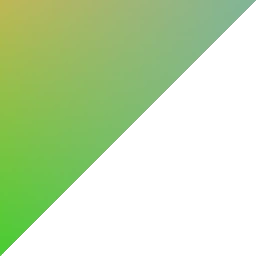
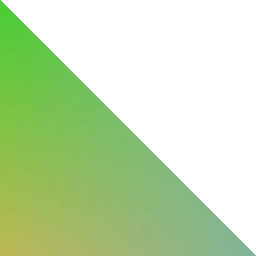
Add colormap

diff --git a/Assets/PixelMiner/Scripts/Core/3D/MeshUtils.cs b/Assets/PixelMiner/Scripts/Core/3D/MeshUtils.cs
@@ -1,10 +1,12 @@
 using System.Collections.Generic;
-using UnityEngine;
 using System.Threading.Tasks;
+using UnityEngine;
 using QFSW.QC;
+using PixelMiner.Enums;
+
 //using VertexData = System.Tuple<UnityEngine.Vector3, UnityEngine.Vector3, UnityEngine.Vector2>;
 using VertexData = System.Tuple<UnityEngine.Vector3, UnityEngine.Vector3, UnityEngine.Vector2, UnityEngine.Vector2>;
-using PixelMiner.Enums;
+
 
 namespace PixelMiner.Core
 {
@@ -27,19 +29,40 @@ namespace PixelMiner.Core
             /*DIRT*/ 
             {new Vector2(0.125f, 0.9375f), new Vector2(0.1875f, 0.9375f),
              new Vector2(0.125f, 1f), new Vector2(0.1875f, 1f)},
+        };
 
+        public static Vector2[,] BlockUV2s =
+        {
+            /*
+             * Order: BOTTOM_LEFT -> BOTTOM_RIGHT -> TOP_LEFT -> TOP_RIGHT.
+             */            
+            /*PLAINS*/
+            {new Vector2(0.234375f, 0.640625f), new Vector2(0.25f, 0.640625f),
+            new Vector2(0.234375f, 0.65625f), new Vector2(0.25f, 0.65625f)},
+
+
+            /*FOREST*/
+            {new Vector2(0.15625f, 0.796875f), new Vector2(0.171875f, 0.796875f),
+            new Vector2(0.15625f, 0.8125f), new Vector2(0.171875f, 0.8125f)}, 
+
+            /*JUNGLE*/
+            {new Vector2(0.15625f, 0.796875f), new Vector2(0.171875f, 0.796875f),
+            new Vector2(0.15625f, 0.8125f), new Vector2(0.171875f, 0.8125f)}, 
+
+            /*DESERT*/
+            {new Vector2(0f, 0f), new Vector2(0.015625f, 0f),
+            new Vector2(0f, 0.015625f), new Vector2(0.015625f, 0.015625f)}, 
+
+            /*NONE*/
+            {new Vector2(0.8125f, 0.8125f), new Vector2(0.828125f, 0.8125f),
+            new Vector2(0.8125f, 0.828125f), new Vector2(0.828125f, 0.828125f)},
         };
 
 
         [Command("/getUV")]
-        public static void ReadUVTesting(int u, int v, ushort blockType = 0)
+        private static void GetUV(int u, int v, ushort blockType = 0)
         {
             float tileSize = 1 / 16f;
-            //Debug.Log($"\n{tileSize * u}   {tileSize * v}" +
-            //    $"\n{tileSize * u + tileSize}   {tileSize * v}" +
-            //    $"\n{tileSize * u}  {tileSize * v + tileSize}" +
-            //    $"\n{tileSize * u + tileSize}   {tileSize * v + tileSize}");
-
             Debug.Log($"\n\n/*{((BlockType)blockType).ToString().ToUpper()}*/" +
                $"\n{{new Vector2({tileSize * u}f, {tileSize * v}f), " +
                $"new Vector2({tileSize * u + tileSize}f, {tileSize * v}f)," +
@@ -47,12 +70,21 @@ namespace PixelMiner.Core
                $"new Vector2({tileSize * u + tileSize}f, {tileSize * v + tileSize}f)}}, ");
         }
 
+        [Command("/getUV2")]
+        private static void GetUV2(int u, int v, ushort blockType = 0)
+        {
+            float tileSize = 1 / 64f;
+            Debug.Log($"\n\n/*{((ColorMapType)blockType).ToString().ToUpper()}*/" +
+               $"\n{{new Vector2({tileSize * u}f, {tileSize * v}f), " +
+               $"new Vector2({tileSize * u + tileSize}f, {tileSize * v}f)," +
+               $"\nnew Vector2({tileSize * u}f, {tileSize * v + tileSize}f), " +
+               $"new Vector2({tileSize * u + tileSize}f, {tileSize * v + tileSize}f)}}, ");
+        }
 
         public static Mesh MergeMesh(Mesh[] meshes)
         {
             Mesh mesh = new Mesh();
             Dictionary<VertexData, int> pointsOrder = new Dictionary<VertexData, int>();
-            HashSet<VertexData> pointsHash = new HashSet<VertexData>();
             List<int> tris = new List<int>();
 
             int pIndex = 0;
@@ -68,10 +100,9 @@ namespace PixelMiner.Core
                     Vector2 uv2 = meshes[i].uv2[j];
                     VertexData p = new VertexData(v, n, uv, uv2);
 
-                    if (!pointsHash.Contains(p))
+                    if (!pointsOrder.ContainsKey(p))
                     {
                         pointsOrder.Add(p, pIndex);
-                        pointsHash.Add(p);
                         pIndex++;
                     }
                 }

diff --git a/Assets/PixelMiner/Scripts/Core/3D/Quad.cs b/Assets/PixelMiner/Scripts/Core/3D/Quad.cs
@@ -9,7 +9,7 @@ namespace PixelMiner.Core
 
 
 
-        public Quad(BlockSide side, BlockType blockType, Vector3 offset = (default))
+        public Quad(BlockSide side, BlockType blockType, ColorMapType colorMap, Vector3 offset = (default))
         {
             Mesh = new Mesh();
 
@@ -24,26 +24,10 @@ namespace PixelMiner.Core
             Vector2 uv01 = MeshUtils.BlockUVs[(ushort)blockType, 2];   // Top left
             Vector2 uv11 = MeshUtils.BlockUVs[(ushort)blockType, 3];   // Top Right
 
-            //Vector2 uv00 = Vector2.zero;   // Bottom left
-            //Vector2 uv10 = Vector2.right;   // Bottom right
-            //Vector2 uv01 = Vector2.up;   // Top left
-            //Vector2 uv11 = new Vector2(1f,1f);   // Top Right
-
-
-            Vector2 uv2_00 = new Vector2(0.5f, 0.8125f);   // Bottom left
-            Vector2 uv2_10 = new Vector2(0.5625f, 0.8125f);   // Bottom right
-            Vector2 uv2_01 = new Vector2(0.5f, 0.875f);   // Top left
-            Vector2 uv2_11 = new Vector2(0.5625f, 0.875f);   // Top Right
-
-            if (!(side == BlockSide.Top))
-            {
-                uv2_00 = new Vector2(0.9375f, 0f);
-                uv2_10 = new Vector2(1f, 0f);
-                uv2_01 = new Vector2(0.9375f, 0.0625f);
-                uv2_11 = new Vector2(1f, 0.0625f);
-            }
-
-
+            Vector2 uv2_00 = MeshUtils.BlockUV2s[(ushort)colorMap, 0];    // Bottom left
+            Vector2 uv2_10 = MeshUtils.BlockUV2s[(ushort)colorMap, 1];   // Bottom right
+            Vector2 uv2_01 = MeshUtils.BlockUV2s[(ushort)colorMap, 2];   // Top left
+            Vector2 uv2_11 = MeshUtils.BlockUV2s[(ushort)colorMap, 3];   // Top Right
 
 
             Vector3 p0 = new Vector3(-0.5f, -0.5f, 0.5f) + offset;

diff --git a/Assets/PixelMiner/Scripts/Core/3D/Block.cs b/Assets/PixelMiner/Scripts/Core/3D/Block.cs
@@ -21,12 +21,12 @@ namespace PixelMiner.Core
         private void CreateCube()
         {
             Quad[] q = new Quad[6];
-            q[0] = new Quad(BlockSide.Top, BlockType.GrassTop);
-            q[1] = new Quad(BlockSide.Bottom, BlockType.GrassSide);
-            q[2] = new Quad(BlockSide.Front, BlockType.GrassSide);
-            q[3] = new Quad(BlockSide.Back, BlockType.GrassSide);
-            q[4] = new Quad(BlockSide.Left, BlockType.GrassSide);
-            q[5] = new Quad(BlockSide.Right, BlockType.GrassSide);
+            q[0] = new Quad(BlockSide.Top, BlockType.GrassTop, ColorMapType.Plains);
+            q[1] = new Quad(BlockSide.Bottom, BlockType.Dirt, ColorMapType.None);
+            q[2] = new Quad(BlockSide.Front, BlockType.GrassSide, ColorMapType.None);
+            q[3] = new Quad(BlockSide.Back, BlockType.GrassSide, ColorMapType.None);
+            q[4] = new Quad(BlockSide.Left, BlockType.GrassSide, ColorMapType.None);
+            q[5] = new Quad(BlockSide.Right, BlockType.GrassSide, ColorMapType.None);
             Mesh[] meshes = new Mesh[6];
             for (int i = 0; i < meshes.Length; i++)
             {
@@ -34,7 +34,6 @@ namespace PixelMiner.Core
             }
 
             _meshFilter.mesh = MeshUtils.MergeMesh(meshes);
-            //_meshFilter.mesh = q[3].Mesh;
             _meshFilter.mesh.name = "Cube_0_0_0";
         }
     }

diff --git a/Assets/PixelMiner/Scripts/Enums/ColorMapType.cs b/Assets/PixelMiner/Scripts/Enums/ColorMapType.cs
@@ -1,0 +1,12 @@
+namespace PixelMiner.Enums
+{
+    public enum ColorMapType : byte 
+    {
+        Plains = 0,
+        Forest = 1,
+        Jungle = 2,
+        Desert = 3,
+        None = 4
+    }
+}
+
